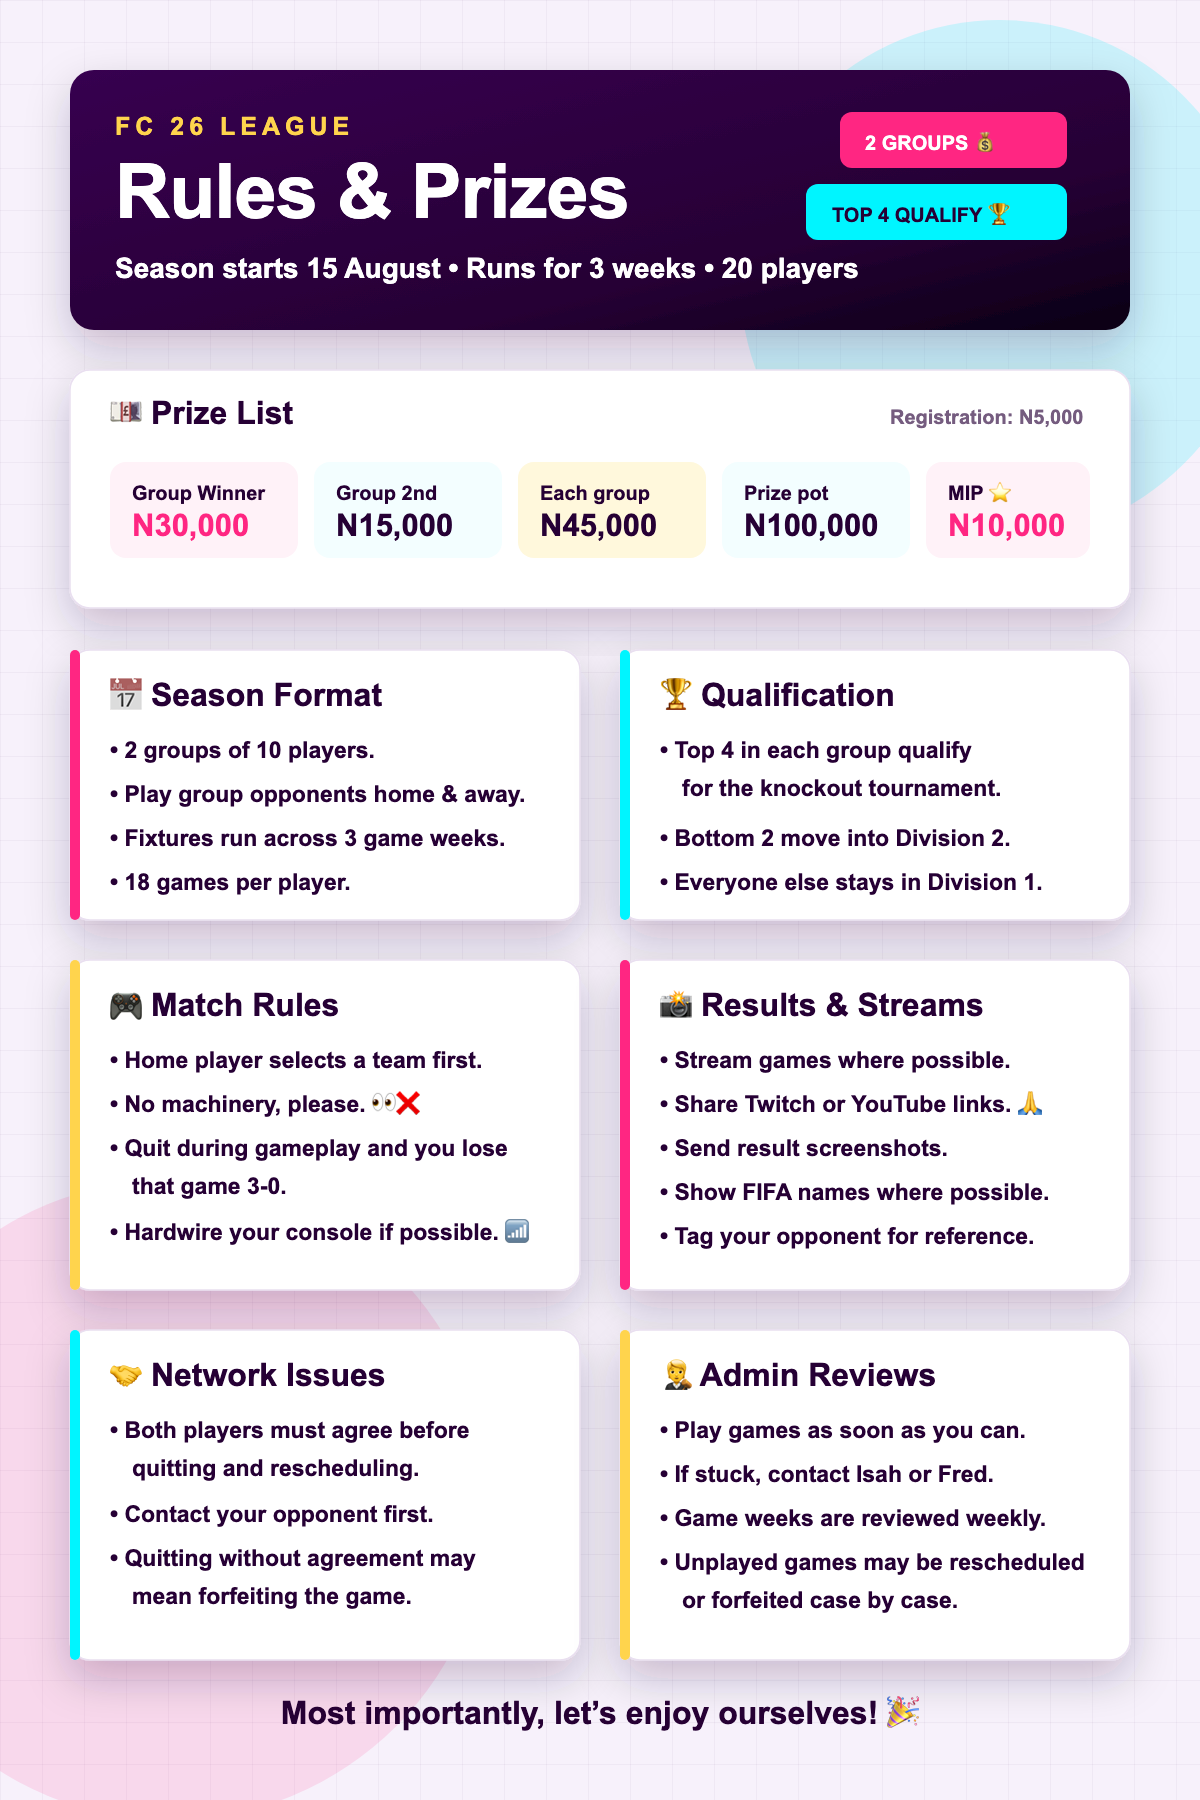
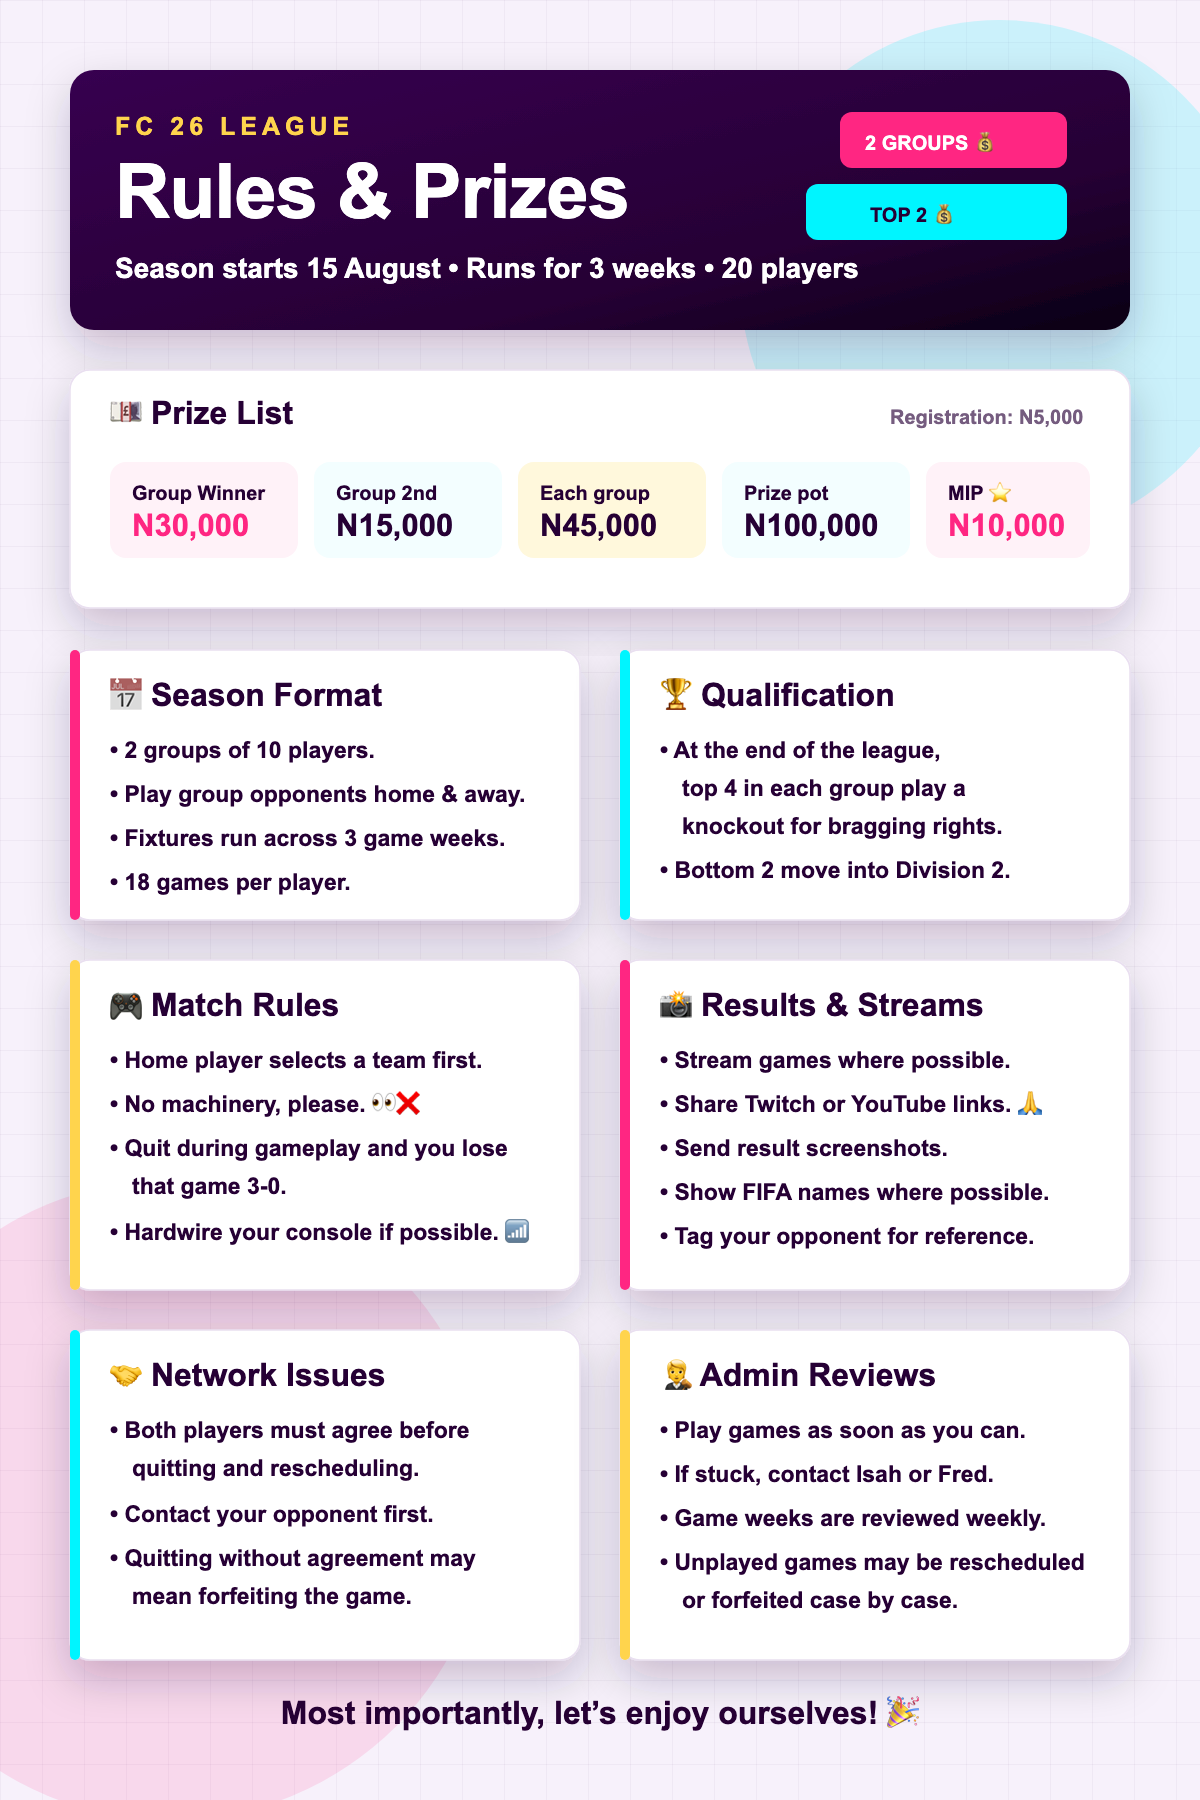
Update knockout rule wording

Changed region(s): [[0.555, 0.4044, 0.8633, 0.4978], [0.7092, 0.0933, 0.8325, 0.1244]]

diff --git a/lib/site-content.ts b/lib/site-content.ts
@@ -17,7 +17,7 @@ export const siteContent = {
         "Each group has 10 players.",
         "Every player plays everyone in their group home and away.",
         "Fixtures are split across three game weeks.",
-        "The top 4 from each group qualify for the knockout tournament.",
+        "At the end of the league, the top 4 teams in each group qualify to play a knockout tournament for bragging rights.",
         "The bottom 2 from each group move into Division 2 next season.",
         "Everyone else remains in Division 1."
       ]
